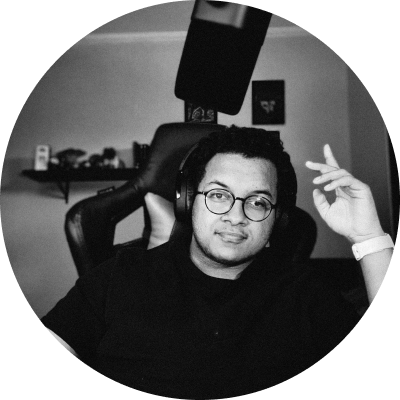
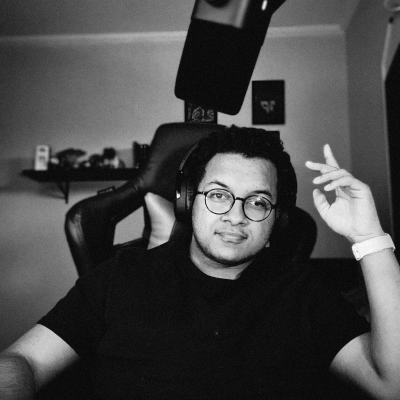
some fixes and updates

diff --git a/src/pages/index.tsx b/src/pages/index.tsx
@@ -3,6 +3,7 @@ import { useScroll, useTransform, motion } from 'framer-motion'
 import { useEffect, useRef } from 'react'
 import Lenis from '@studio-freight/lenis'
 import useDimension from '@/hooks/useDimension'
+import About from '@/components/About'
 
 export default function Home() {
 	const container = useRef<HTMLDivElement>(null)
@@ -28,15 +29,7 @@ export default function Home() {
 			<div className='flex flex-col justify-center items-center '>
 				<HeroBanner />
 			</div>
-			<motion.div
-				style={{ y }}
-				className='flex flex-col h-screen items-center justify-center rounded-t-[1.3rem] bg-[url("/img/noise-about.svg")]'
-			>
-				<h3 className='text-background font-teko text-5xl'>Olá Chris</h3>
-			</motion.div>
-			<div className='flex flex-col h-screen justify-center items-center '>
-				<h3 className='text-background font-teko text-5xl'>Olá Chris</h3>
-			</div>
+			<About y={y} />
 		</div>
 	)
 }

diff --git a/src/components/About/index.tsx b/src/components/About/index.tsx
@@ -1,0 +1,31 @@
+import { motion } from 'framer-motion'
+import Image from 'next/image'
+import Text from '../Text'
+
+const About = (y: any) => {
+	return (
+		<motion.div
+			style={{ y }}
+			className='flex flex-col h-screen justify-center rounded-t-[1.3rem] bg-[url("/img/noise-about.svg")]'
+		>
+			<h3 className='text-8xl uppercase font-teko px-2 py-2'>About Me.</h3>
+			<div className='flex flex-col h-screen items-center justify-center'>
+				<Image
+					src={'/img/me.png'}
+					alt='Chris'
+					width={400}
+					height={400}
+					className='rounded-xl'
+				/>
+				<Text>
+					Lorem ipsum dolor sit amet, consectetur adipiscing elit. Praesent
+					laoreet auctor metus, eget ultrices enim. Proin a mi vulputate,
+					scelerisque lectus ac, molestie purus. Phasellus congue dui ac
+					vehicula dignissim.
+				</Text>
+			</div>
+		</motion.div>
+	)
+}
+
+export default About

diff --git a/src/components/HeroSection/index.tsx b/src/components/HeroSection/index.tsx
@@ -5,7 +5,7 @@ import Text from '../Text'
 const HeroBanner = () => {
 	return (
 		<>
-			<div className='flex flex-col justify-center  h-screen items-center bg-[url("/img/hero-section.svg")] bg-no-repeat bg-center object-cover'>
+			<div className='flex flex-col justify-center h-screen items-center bg-[url("/img/hero-section.svg")] bg-no-repeat bg-center object-cover'>
 				<HeroNameSection />
 				<Text>
 					A frontend developer & software engineer propelling project dreams to
